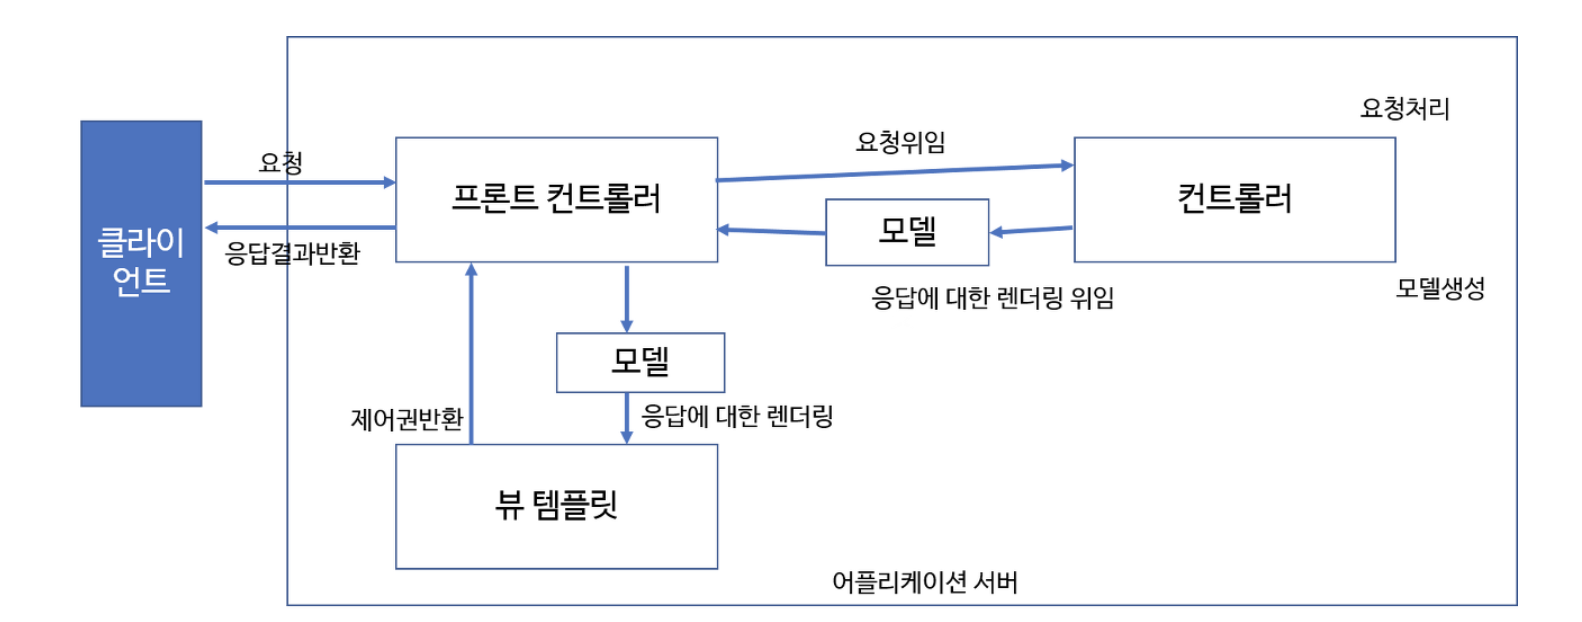
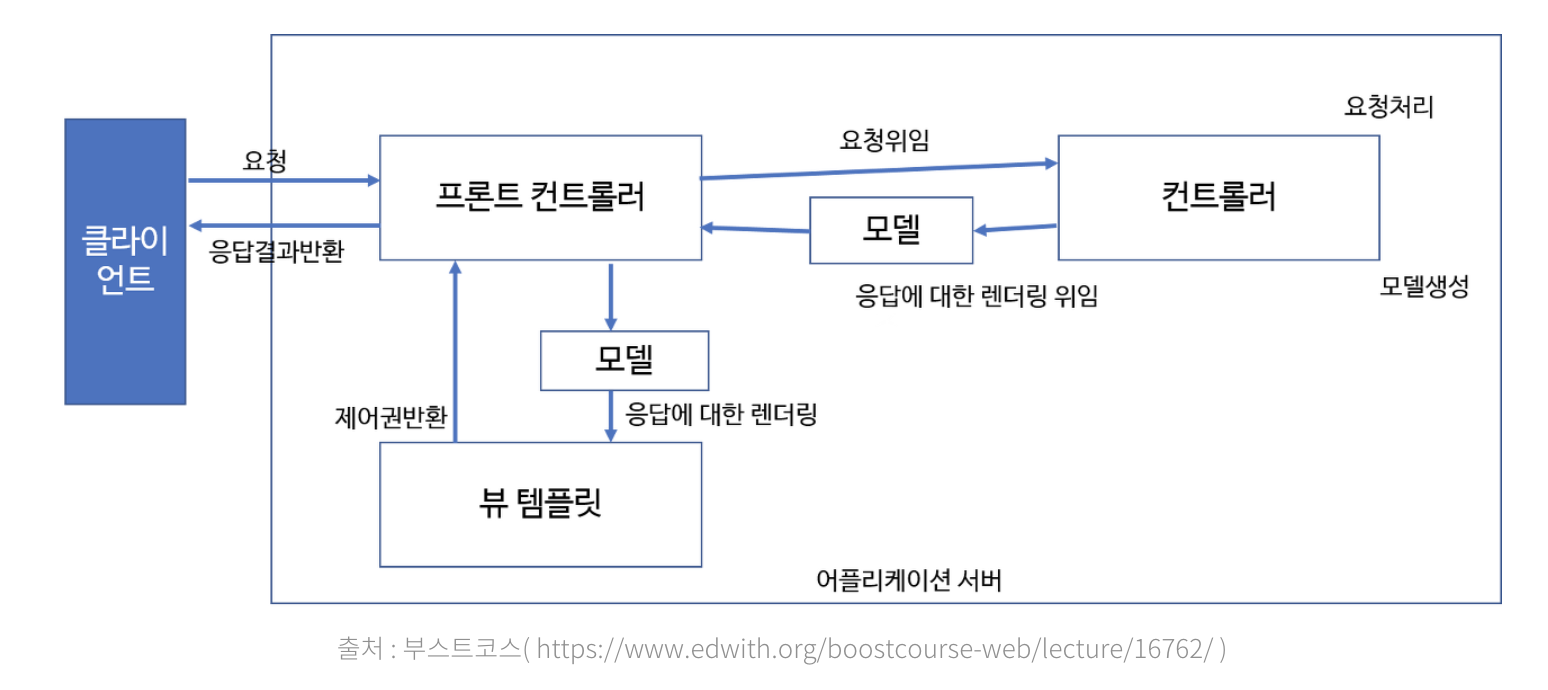
springMVC란

Changed region(s): [[0.031, 0.0611, 0.9612, 0.9775], [0.186, 0.0305, 0.9612, 0.0916]]

diff --git a/_posts/2021-01-01-springMVC.md b/_posts/2021-01-01-springMVC.md
@@ -13,7 +13,6 @@ last_modified_at: 2021-01-01T01:00:00+09:00
 - Controller : 컨트롤러는 사용자의 액션에 응답하는 컴포넌트다. 컨트롤러는 모델을 업데이트하고, 다른 액션들을 수행한다.
 
 {% raw %} <img src="https://chohongjae.github.io/assets/img/20210101spring/spring-mvc-model2.png" alt=""> {% endraw %}
-- Spring MVC의 아키텍쳐([이미지 출처](https://www.edwith.org/boostcourse-web/lecture/16762))
 
 ### Spring MVC 아키텍처 흐름
     클라이언트가 보내는 모든 요청을 Front Controller라는 Servlet Class가 받아서
@@ -24,3 +23,46 @@ last_modified_at: 2021-01-01T01:00:00+09:00
     Controller가 자바 bean 등을 이용해서 결과를 만들어내고,
     만들어진 결과를 Model에 담아서 Front Controller에게 보내면
     Front Controller가 알맞은 View에게 Model을 전달해서 결과를 출력한다.
+
+
+### 실제 동작 흐름
+    요청 -> 프론트 컨트롤러 -> 핸들러 매핑 -> 핸들러 어댑터 -> 컨트롤러 -> 로직 수행(서비스) -> 컨트롤러 -> 뷰 리졸버 -> 응답(jsp, html)
+
+1. 클라이언트의 요청을 DispatcherServlet이 맨 앞단에서 받는다.
+    
+        컨트롤러 중에서도, 맨 앞단에서 유저의 유청을 받는 컨트롤러를 프론트 컨트롤러라고 한다.
+        DispatcherServlet 객체가 이 역할을 한다.
+        본격적으로 로직에 들어오기 전에, 요청에 대한 선처리 작업을 수행한다.
+        ex. 지역 정보 결정, 멀티파트 파일 업로드 처리 등
+
+2. 그러면 DispatcherServlet이 HandlerMapping에게 그 요청을 보내고, HandlerMapping은 그 일을 해줄 Controller를 찾는다.
+  
+        프론트 컨트롤러는 요청을 핸들러 매핑을 통해 해당 요청을 어떤 핸들러가 처리해야하는지를 매핑한다.
+        
+3. 그러고나서 HandlerMapping은 DispatcherServlet에게 그 Controller를 알려주고,
+        
+        HandlerMapping 객체가 핸들러 매핑에 대한 정보를 담고있다.
+
+4. DispatcherServlet은 HandlerAdapter에게 찾은 Controller의 어떤 메서드를 쓸건지 HandlerAdapter에게 물어본다.
+   HandlerAdapter 는 Controller 에 있는 메소드를 찾고,
+   
+        이렇게 매핑된 핸들러를 실제로 실행하는 역할은 핸들러 어댑터가 담당한다.
+        HandlerAdapter 객체가 이 역할을 한다.
+
+5. Controller는 그 메서드를 수행한다. 이때 Service, DAO 등의 객체를 이용해 DB작업을 보통한다.
+
+        컨트롤러는 해당 요청을 처리하는 로직을 담고있다.
+        보통 요청의 종류 혹은 로직의 분류에 따라 내부적으로 Service 단위로 나누어 모듈화 한다.
+        각 서비스에서는 DB 접근할 수 있는 Repository 객체를 이용하여 데이터에 접근할 수 있다.
+
+6. 찾은 메서드로 작업을 하고나면 결과를 HandlerAdapter에게 보내주는데, 이때 보통 ModelAndView라는 놈을 이용해서
+데이터(Model) 와 View 이름을 리턴해준다.
+
+7. HandlerAdapter는 그 값을 DispatcherServlet에게 리턴해준다.
+
+8. DispatcherServlet이 View 이름을 ViewResolver에게 주고 이름을 통해 View를 찾게한다.
+
+9. ViewResolver은 해당하는 View 를 찾고 , 그 View에서는 만들어진 데이터(Model) 값으로 화면의 내용을 구성해서 클라이언트에게 보여준다.
+
+{% raw %} <img src="https://chohongjae.github.io/assets/img/20210101spring/springmvc.png" alt=""> {% endraw %}
+
